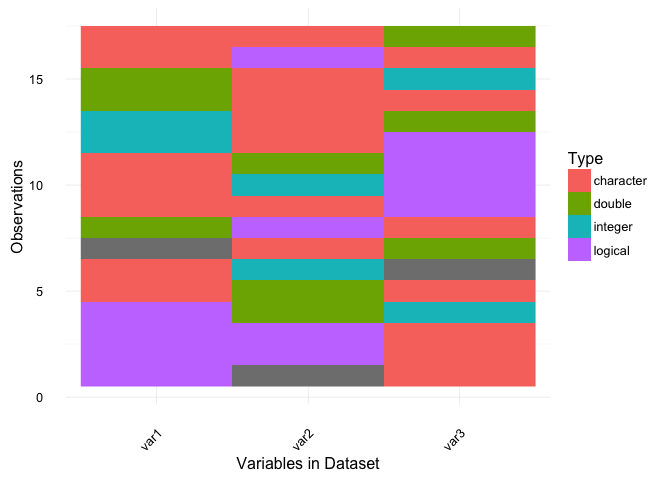
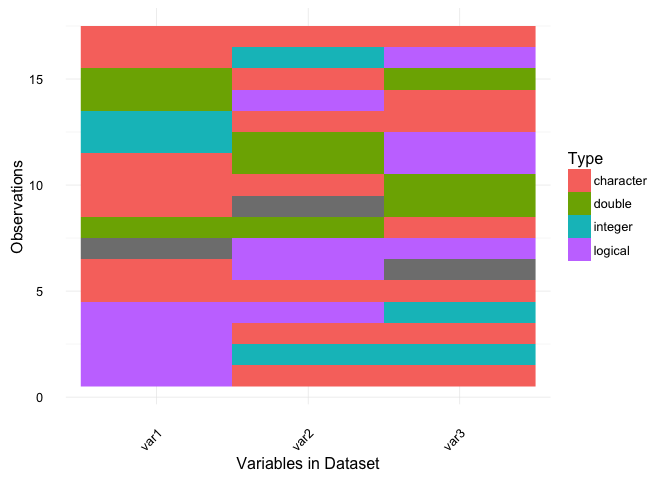
add vis_miss_ly
still under development, but a start

Changed region(s): [[0.3438, 0.0312, 0.8125, 0.8125]]

diff --git a/NEWS.md b/NEWS.md
@@ -1,3 +1,10 @@
+# visdat 0.0.4.9700 (2016/08/19)
+
+## NEW FEATURE (under development)
+=========================
+
+- `vis_miss_ly` is a new function that uses plotly to plot missing data, like `vis_miss`, but interactive, without the need to call `plotly::ggplotly` on it. It's fast, but at the moment it needs a bit of love on the legend front to maintain the style and features (clustering, etc) of current `vis_miss`.
+
 # visdat 0.0.4.9600 (2016/08/18)
 =========================
 

diff --git a/README.md b/README.md
@@ -254,6 +254,21 @@ library(plotly)
 vis_dat(airquality) %>% ggplotly()
 ```
 
+vis\_dat\_ly
+------------
+
+This is still under development, but it is basically a faster version of doing a ggplot and then calling ggplotly.
+
+vis\_miss\_ly
+-------------
+
+This is also just brand new under development, but should prove interesting once I fix up the legend, etc.
+
+``` r
+
+vis_miss_ly(airquality)
+```
+
 Road Map
 ========
 
